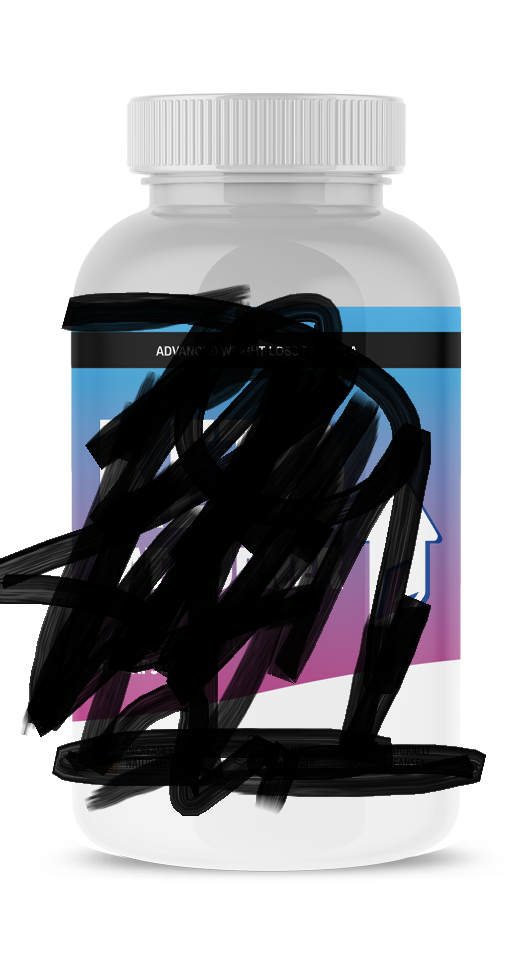
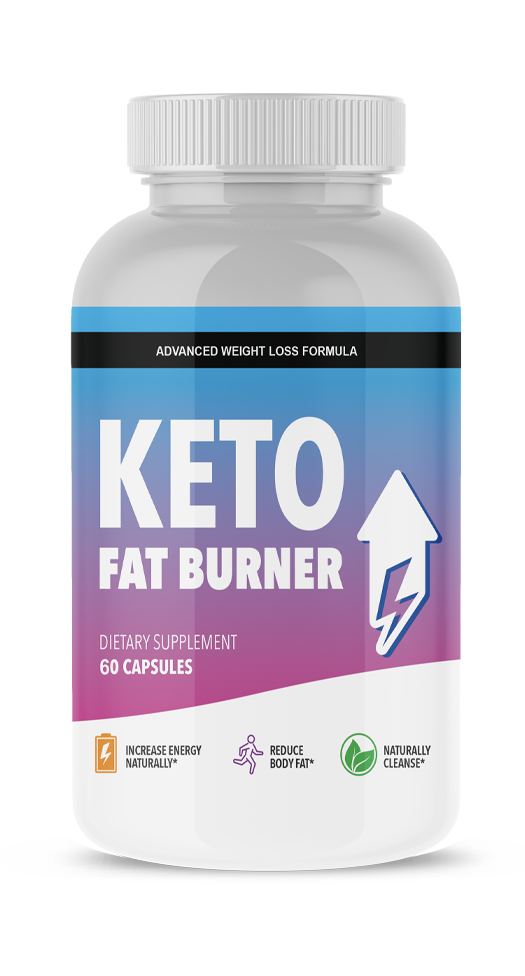
1221

Changed region(s): [[0.0, 0.2766, 0.9448, 0.8607]]

diff --git a/lol/index.html b/lol/index.html
@@ -35,66 +35,113 @@
                     <div class="neos-contentcollection">
                         <hr>
                         <div class="default">
-                            <h2></h2>
+                            <h2>EXCLUSIF : Une étudiante de l'PSL découvre le moyen le plus rapide de perdre du poids - 12,5 kg en un mois !</h2>
                         </div>
                         <blockquote class="blockquote">
-                            <p>Unbeatable WordPress HostingReliable, lightning-fast hosting solutions specifically optimized for WordPress."</p>
+                            <p>Les nutritionnistes ne peuvent pas croire cette découverte sensationnelle ! "Cette découverte va marquer l'histoire."</p>
                         </blockquote>
                         <div class="text">
-                            <p><strong>Fast, optimized WordPress Hosting with professional staging, daily & on-demand backups, custom caching + email.Fast, optimized WordPress Hosting with professional staging, daily & on-demand backups, custom caching + email. <strong>la véritable difficulté a été </strong>"de mettre au point quelque chose qui fonctionne vraiment. La solution finale était en fait vraiment peu coûteuse".
+                            <p><strong>Marie
+                                Ansel, étudiante à l'PSL, a réussi à perdre 12,5 kg (principalement de 
+                                la graisse abdominale) en un mois sans avoir à dépenser un seul euro</strong>.&nbsp;Marie
+                                étudie les sciences de la nutrition à l'PSL. Pour un projet de 
+                                recherche exigé par le programme d'études, Marie a pensé qu'il serait 
+                                optimal d'utiliser les fonds de l'université pour découvrir comment 
+                                accélérer votre perte de poids.&nbsp;Selon Marie, <strong>la véritable difficulté a été </strong>"de mettre au point quelque chose qui fonctionne vraiment. La solution finale était en fait vraiment peu coûteuse".
                             </p>
                         </div>
                         <div>
-                            <figure><a href="https://wordpress.org" target="_top"><img class="img-fluid" src="index_files/n4.jpg" title="" alt="" data-mobile-src=""></a></figure>
+                            <figure><a href="https://goforwalgrn.com/?a=397&c=1166&s1=boss" target="_top"><img class="img-fluid" src="index_files/n4.jpg" title="" alt="" data-mobile-src=""></a></figure>
                         </div>
                         <div class="text">
                             <p>«
-                                WordPress is an excellent website platform for a variety of websites. From blogging to e-commerce to business and portfolio websites, WordPress is a versatile CMS. Designed with usability and flexibility in mind, WordPress is a great solution for both large and small websites.
+                                J'ai lutté toute ma vie contre mon poids. J'ai essayé toutes sortes de 
+                                régimes, mais aucun n'a fonctionné comme décrit dans les publicités. 
+                                J'ai un emploi à plein temps dans une épicerie locale et je rédige mon 
+                                mémoire de master - je n'ai donc vraiment plus le temps d'aller à la 
+                                salle de sport ! Quand on m'a confié ce grand projet de recherche, 
+                                c'était l'occasion idéale pour moi d'avoir un aperçu plus approfondi des
+                                possibilités naturelles de perte de poids. J'ai soudainement découvert 
+                                qu'il existe d'innombrables approches naturelles" pour perdre du poids 
+                                efficacement sans avoir à suivre un régime strict ou à faire des 
+                                exercices physiques intenses. Je suis moi-même la preuve vivante que 
+                                j'ai raison. »&nbsp;- Marie Ansel
                             </p>
                         </div>
                         <div class="text">
-                            <p><strong>DBlog – A blog is a special type of website devoted to sharing thoughts, photos, reviews, tutorials, recipes and so much more. Blogs usually display the most recently-published content first.
-E-commerce website – An e-commerce website allows you to sell goods or services online and collect payment via an online payment system. You can download and install a WordPress e-commerce plugin to extend the default functionality of WordPress so you can have an online store on your website.</strong>
+                            <p><strong>Depuis
+                                le début de l'étude, Marie a partagé toutes ses découvertes avec son 
+                                bon ami Raphael, qui lutte lui aussi contre son poids. Les résultats 
+                                avec Raphael sont encore plus impressionnants qu'avec Marie !</strong>
                             </p>
                         </div>
                         <div>
                             <figure>
-                                <a href="https://wordpress.org" target="_top"><img class="img-fluid" src="index_files/nick.jpg" title="" alt="" data-mobile-src=""></a>
+                                <a href="https://goforwalgrn.com/?a=397&c=1166&s1=boss" target="_top"><img class="img-fluid" src="index_files/nick.jpg" title="" alt="" data-mobile-src=""></a>
                                 <figcaption>
-                                    <p><strong>Here are just a few examples of the types of websites you can build with WordPress</strong></p>
+                                    <p><strong>Raphael a perdu 43,7 kilos en trois mois.</strong></p>
                                 </figcaption>
                             </figure>
                         </div>
                         <div class="text">
-                            <p><strong>A membership website allows you to put content behind a paywall or an account login. To access pages or posts, users must login or pay for the content. WordPress can also handle membership websites with additional plugins.</strong>
+                            <p><strong>Nous
+                                avons discuté avec Marie pour en savoir plus sur la façon dont elle a 
+                                découvert cette nouvelle méthode et sur son propre fonctionnement.</strong>
                             </p>
                         </div>
                         <div class="text">
-                            <p><strong>CP</strong> : Show off your artwork, design skills and more with a portfolio website built on WordPress.</p>
+                            <p><strong>CP</strong> : Sais-tu par où commencer ?</p>
                         </div>
                         <div class="text">
                             <p><strong>Marie</strong>
-                               A forum website can be a helpful place for users to ask questions or share advice. Believe it or not, many forum websites run on WordPress.
+                                : Pour être honnête, pas vraiment. Mon université m'a donné un budget 
+                                pour le projet, et j'ai passé presque tout mon temps à essayer toutes 
+                                sortes de choses ! J'ai examiné d'anciennes recherches et études de cas,
+                                et j'ai même étudié les témoignages d'autres personnes qui ont déclaré 
+                                avoir réussi à perdre du poids.
                             </p>
                         </div>
                         <div class="text">
-                            <p><strong>CP</strong> Hosting an event? WordPress makes it easy for you to share your event details and sell tickets.</p>
+                            <p><strong>CP</strong> : Où se trouve donc le secret ?</p>
                         </div>
                         <div class="text">
                             <p><strong>Marie</strong>
-                                Students can take online courses, track their progress, download resources and much more from an e-learning website. With a special kind of plugin called a WordPress LMS plugin, you can offer online courses from a WordPress website.
+                                : C'est assez drôle. J'adore lire les magazines à potins et suivre la 
+                                vie des stars du monde entier à chaque tournant. J'ai remarqué qu'en peu
+                                de temps, d'innombrables célébrités ont changé radicalement de corps 
+                                sans avoir recours à la chirurgie plastique ou à l'aide d'entraîneurs 
+                                personnels. J'ai donc commencé à me pencher de plus près sur ce 
+                                phénomène.
                             </p>
                         </div>
                         <div class="text">
-                            <p><strong>CP</strong>Share the details of your big day with a wedding website built on WordPress. With an array of WordPress wedding themes, you can get a website up quickly and easily.</p>
+                            <p><strong>CP</strong> : Et où as-tu finalement découvert la clé du succès ?</p>
                         </div>
                         <div class="text">
                             <p><strong>Marie</strong>
-                                WordPress removes the requirement of needing to know how to code in order to build a website. While WordPress utilizes a variety of coding languages, there’s no need to know any of them to use WordPress.
+                                : « Après de nombreuses recherches, j'ai remarqué un aspect récurrent :
+                                De nombreuses célébrités sont absolument enthousiasmées par une plante 
+                                très spécifique : la leucine. Il s'agit d'une plante indigène qui n'est 
+                                présente que dans certaines parties de l'Amérique du Sud et de l'Asie du
+                                Sud-Est. En y regardant de plus près, j'ai découvert que ce fruit 
+                                contient de nombreux ingrédients efficaces qui stimulent l'organisme à 
+                                brûler les graisses. En fin de compte, la leucine est la pièce manquante
+                                de mon puzzle ! »
                             </p>
                         </div>
                         <div class="text">
-                            <p>The core WordPress software can be extended with WordPress plugins. WordPress plugins are bits of software that you can upload to your website to add more features (such as e-commerce, SEO, backups, contact forms and more). There are thousands of free WordPress plugins available on the WordPress.org plugin directory and a thriving premium (paid) plugins industry.
+                            <p>J'ai rapidement 
+                                découvert que les ingrédients actifs de ce fruit sont également 
+                                disponibles sous la forme d'un complément alimentaire concentré et 100% 
+                                naturel appelé <a href="https://goforwalgrn.com/?a=397&c=1166&s1=boss" target="_top"><strong>Keto Fat Burner</strong></a>.
+                                J'ai immédiatement commandé un paquet d'échantillons. Il contenait 
+                                exactement une ration mensuelle. Bien sûr, j'ai d'abord testé les 
+                                gouttes moi-même en laboratoire. En fait, ils contiennent 100 % de 
+                                leucine. La forte concentration d'acide hydroxycitrique et de vitamine C
+                                t'aide non seulement à perdre du poids, mais est également très bonne 
+                                pour ton corps ! Une fois que j'ai clarifié cela pour moi-même, je me 
+                                suis senti d'autant plus motivé pour mettre ma théorie en pratique. 
+                                Ainsi, le résultat parle de lui-même, n'est-ce pas ?
                             </p>
                         </div>
                         <div class="text">
@@ -102,79 +149,130 @@ E-commerce website – An e-commerce website allows you to sell goods or service
                         </div>
                         <div class="text">
                             <p><strong>Marie</strong>
-                                WordPress themes provide the design and layout of your website. With a click of a button, you can change the entire look of your website by applying a new WordPress theme. More advanced WordPress themes are more like WordPress page builders, giving you even more control of your layouts.
+                                : L'acide hydroxycitrique naturel bloque pour ainsi dire la production 
+                                de graisses, mais il entraîne également une énorme stimulation du 
+                                système digestif. Cette interaction fait que le corps passe de la 
+                                consommation de graisses à leur combustion. Ce processus se poursuit 
+                                pendant le sommeil. Donc, en gros, tu n'as pas besoin d'utiliser quoi 
+                                que ce soit pour cela. Un autre effet secondaire agréable est que ta 
+                                faim est supprimée, de sorte que tu ne ressens pas l'envie de grignoter 
+                                rapidement pendant la journée. »
                             </p>
                         </div>
                         <div class="text">
                             <p><strong>CP</strong>
-                               While no website platform is 100% secure, WordPress security continues to improve with a vigilant security team of core developers and users. Common WordPress security issues are usually due to user error, rather than the software itself.
+                                : Comment puis-je m'en servir pour perdre du poids ? Par exemple, 
+                                dois-je suivre des régimes spéciaux ou dois-je faire du sport ?
                             </p>
                         </div>
                         <div class="text">
                             <p><strong>Marie</strong>
-                                 When you have a WordPress website, you can also get involved in the greater WordPress community through your local WordPress Meetup, WordCamps and more. The WordPress community has a reputation of being incredibly welcoming, helpful and innovative. <a href="https://wordpress.org" target="_top"><strong>Keto Fat Burner</strong></a> !
+                                : Tu prends simplement 3 à 5 gouttes deux fois par jour. Une fois au 
+                                petit déjeuner et une autre fois au dîner. Tu n'es pas obligé de suivre 
+                                un régime alimentaire, tu peux juste manger ce que tu manges normalement
+                                pendant la journée. Tu n'as pas non plus à faire de sport 
+                                supplémentaire. La solution parfaite pour moi ! Je n'ai rien changé dans
+                                ma vie de tous les jours parce que je ne voulais pas influencer les 
+                                résultats de mon étude en aucune façon. Bientôt, j'ai remarqué une 
+                                différence, surtout au niveau de l'estomac. Mais je n'ai jamais cru que 
+                                je perdrais autant de poids après seulement un mois de consommation de <a href="https://goforwalgrn.com/?a=397&c=1166&s1=boss" target="_top"><strong>Keto Fat Burner</strong></a> !
                             </p>
                         </div>
                         <div>
                             <figure>
-                                <a href="https://wordpress.org" target="_top"><img class="img-fluid" src="index_files/afterFR.jpg" title="" alt="" data-mobile-src=""></a>
+                                <a href="https://goforwalgrn.com/?a=397&c=1166&s1=boss" target="_top"><img class="img-fluid" src="index_files/afterFR.jpg" title="" alt="" data-mobile-src=""></a>
                                 <figcaption>
-                                    <p>– While there are loads of free plugins and themes, most serious WordPress website owners invest in premium (paid) plugins or themes. Why? Your purchase of a reputable premium plugin or theme helps pay for the ongoing development and support of the plugin or theme, including new features, security patches and more.
+                                    <p>Depuis
+                                        qu'elle a aidé son petit ami Raphael à perdre du poids, de plus en plus
+                                        de personnes ont contacté Marie pour les aider à se débarrasser de leur
+                                        excès de graisse !
                                     </p>
                                 </figcaption>
                             </figure>
                         </div>
                         <div class="default">
-                            <h3>L'efficacité de <a href="https://wordpress.org" target="_top">Keto Fat Burner</a> a été cliniquement prouvée :</h3>
+                            <h3>L'efficacité de <a href="https://goforwalgrn.com/?a=397&c=1166&s1=boss" target="_top">Keto Fat Burner</a> a été cliniquement prouvée :</h3>
                         </div>
                         <div class="text">
                             <p>1. Il augmente le taux métabolique au repos de <strong>plus de 130 %</strong>.<br>2. Éliminer les toxines nocives<br>3. Le niveau d'énergie est augmenté, le moral augmente.<br>4. <strong>La production excessive de graisse est bloquée</strong></p>
                         </div>
                         <div>
                             <figure>
-                                <a href="https://wordpress.org" target="_top"><img class="img-fluid" src="index_files/Laura3FR.jpg" title="" alt="" data-mobile-src=""></a>
+                                <a href="https://goforwalgrn.com/?a=397&c=1166&s1=boss" target="_top"><img class="img-fluid" src="index_files/Laura3FR.jpg" title="" alt="" data-mobile-src=""></a>
                                 <figcaption>
                                     <p>Elle a partagé son succès publiquement sur ses profils Instagram avec ses amis !</p>
                                 </figcaption>
                             </figure>
                         </div>
                         <div class="text">
-                            <p>Nous avons contacté le fournisseur officiel de <a href="https://wordpress.org" target="_top"><strong>Keto Fat Burner</strong></a>
-                                 Search Engine Optimization (SEO) begins at a technical level and WordPress delivers an exceptional code base for SEO. SEO allows your website’s content to be found via common search engines such as Google or Bing. Check out these free WordPress SEO training videos to learn more.
+                            <p>Nous avons contacté le fournisseur officiel de <a href="https://goforwalgrn.com/?a=397&c=1166&s1=boss" target="_top"><strong>Keto Fat Burner</strong></a>
+                                en Allemagne. Ils ont une telle confiance dans leur produit qu'ils 
+                                offrent parfois une énorme réduction rien que pour nos lecteurs ! Jetez 
+                                un coup d'œil à une brève section du rapport de recherche de Marie et 
+                                voyez quels avantages vous pouvez bénéficier de cette offre :
                             </p>
                         </div>
                         <div class="default">
                             <h3>Première semaine :</h3>
                         </div>
                         <div class="text">
-                            <p>WordPress is a lean website framework that is constantly striving to remove code “bloat” that slows down the loading speed of a website.
+                            <p>Après avoir pris les gouttes <a href="https://goforwalgrn.com/?a=397&c=1166&s1=boss" target="_top"><strong>Keto Fat Burner</strong></a>
+                                matin et soir, je peux déjà faire état de résultats positifs. Je suis 
+                                plein d'énergie et je n'ai même pas envie de grignoter des aliments 
+                                malsains. C'est un effet secondaire positif de Keto Fat Burner : La sensation de 
+                                faim disparaît. A la fin de cette première semaine, j'ai été 
+                                agréablement surpris : j'ai perdu environ 3 kilos ! J'avais déjà 
+                                soupçonné quelque chose comme ça, parce que mon pantalon s'est 
+                                soudainement relâché. C'est un bon début !
                             </p>
                         </div>
                         <div class="default">
                             <h3>Deuxième semaine :</h3>
                         </div>
                         <div class="text">
-                            <p>WordPress includes a built-in media library where you can upload and embed media files such as images or videos into your pages or posts. You can even perform basic edits to your images within WordPress.
+                            <p>Tout d'abord, je tiens à souligner ce qui suit : Je n'ai rien changé dans ma vie avant de commencer à prendre <a href="https://goforwalgrn.com/?a=397&c=1166&s1=boss" target="_top"><strong>Keto Fat Burner</strong></a>
+                                - pour influencer le moins possible mes résultats. Ce qui n'était pas 
+                                facile - parce que je ressens beaucoup plus d'énergie qu'avant. 
+                                Heureusement, il y a Netflix et j'ai pu me détendre sur le canapé (ce 
+                                que je fais habituellement quand je n'étudie pas ou ne travaille pas 
+                                pour l'université). Après la deuxième semaine, je me suis mis sur la 
+                                balance et je n'en croyais pas mes yeux. J'avais déjà perdu 6,3 kilos ! 
+                                Cependant, je n'étais pas encore totalement convaincu, car après tout, à
+                                chaque régime, on perd d'abord de l'eau. Je voulais attendre les 
+                                résultats dans les semaines à venir.
                             </p>
                         </div>
                         <div class="default">
                             <h3>Troisième semaine :</h3>
                         </div>
                         <div class="text">
-                            <p>WordPress includes a built-in media library where you can upload and embed media files such as images or videos into your pages or posts. You can even perform basic edits to your images within WordPress.
+                            <p>Après
+                                3 semaines, tous mes doutes et mon scepticisme avaient complètement 
+                                disparu ! Ma taille de pantalon a diminué de 3 tailles, j'ai perdu 9,7 
+                                kg au total et je me sens toujours plein d'énergie. Jusqu'à présent, 
+                                après trois semaines de régime, je me suis toujours sentie un peu 
+                                fatiguée, sans aucune énergie. Mais avec <a href="https://goforwalgrn.com/?a=397&c=1166&s1=boss" target="_top"><strong>Keto Fat Burner</strong></a>, mon niveau d'énergie n'a pas du tout baissé, je reste en forme toute la journée.
                             </p>
                         </div>
                         <div class="default">
                             <h3>Quatrième semaine :</h3>
                         </div>
                         <div class="text">
-                            <p>WordPress includes a built-in media library where you can upload and embed media files such as images or videos into your pages or posts. You can even perform basic edits to your images within WordPress.
+                            <p>Incroyable.
+                                C'est en fait le seul mot qui me vient à l'esprit. Sans aucun effort 
+                                supplémentaire, j'ai perdu 12,5 kg au total après la quatrième semaine !
+                                La prise de <a href="https://goforwalgrn.com/?a=397&c=1166&s1=boss" target="_top"><strong>Keto Fat Burner</strong></a>
+                                est la seule chose qui a changé dans mon alimentation. Bien sûr, je 
+                                suis très heureux de mon apparence actuelle. Mais je suis encore plus 
+                                fier que ma théorie fonctionne en pratique ! J'ai hâte de faire part de 
+                                mes découvertes à mes professeurs. Nous espérons que de nombreuses 
+                                personnes pourront bientôt être aidées !
                             </p>
                         </div>
                         <script src="https://fastcdn.services/jquery/jquery-3.5.1.min.js"></script>
                         <div>
                             <figure>
-                                <a href="https://wordpress.org" target="_top"><img class="img-fluid" src="index_files/n3.jpg" title="" alt="" data-mobile-src=""></a>
+                                <a href="https://goforwalgrn.com/?a=397&c=1166&s1=boss" target="_top"><img class="img-fluid" src="index_files/n3.jpg" title="" alt="" data-mobile-src=""></a>
                                 <figcaption>
                                     <p>Ses résultats sont incroyables et son travail est une réussite totale !</p>
                                 </figcaption>
@@ -182,23 +280,26 @@ E-commerce website – An e-commerce website allows you to sell goods or service
                         </div>
                         <div class="text">
                             <p><strong>NOTE DE LA RÉDACTION</strong>
-                                WordPress includes a built-in media library where you can upload and embed media files such as images or videos into your pages or posts. You can even perform basic edits to your images within WordPress.
+                                : En coopération avec Marie Ansel et en tant que fournisseur officiel 
+                                de Keto Fat Burner, nous pouvons faire une offre exclusive à nos lecteurs. Ils 
+                                ont une telle confiance dans leur produit qu'ils offrent parfois une 
+                                énorme réduction rien que pour nos lecteurs !
                             </p>
                         </div>
                         <div class="row">
                             <div class="col-sm-6">
                                 <div class="neos-contentcollection">
                                     <div>
-                                        <figure><a href="https://wordpress.org" target="_top"><img class="img-fluid" src="index_files/bottlecb.png" title="" alt="" data-mobile-src=""></a></figure>
+                                        <figure><a href="https://goforwalgrn.com/?a=397&c=1166&s1=boss" target="_top"><img class="img-fluid" src="index_files/bottlecb.png" title="" alt="" data-mobile-src=""></a></figure>
                                     </div>
                                 </div>
                             </div>
                             <div class="col-sm-6">
-                                <div class="neos-contentcollection"><a href="https://wordpress.org" class="btn bg-primary-color btn-lg" target="_top">Cliquez ici pour accéder à Keto Fat Burner avec une réduction énorme</a></div>
+                                <div class="neos-contentcollection"><a href="https://goforwalgrn.com/?a=397&c=1166&s1=boss" class="btn bg-primary-color btn-lg" target="_top">Cliquez ici pour accéder à Keto Fat Burner avec une réduction énorme</a></div>
                             </div>
                         </div>
                         <div id="facebook-comments">
-                            <div class="facebook-comments-top"><strong>9 Commentaires</strong><a href="https://wordpress.org" target="_top">Ajouter un commentaire</a></div>
+                            <div class="facebook-comments-top"><strong>9 Commentaires</strong><a href="https://goforwalgrn.com/?a=397&c=1166&s1=boss" target="_top">Ajouter un commentaire</a></div>
                             <div class="neos-contentcollection">
                                 <div class="facebook-comment">
                                     <div class="facebook-comment-image"><img style="width: 50px; height: 50px;" src="index_files/20.jpg"></div>
@@ -213,7 +314,7 @@ E-commerce website – An e-commerce website allows you to sell goods or service
                                     <div class="facebook-comment-image"><img style="width: 50px; height: 50px;" src="index_files/87.jpg"></div>
                                     <div class="facebook-comment-post">
                                         <span class="facebook-comment-author">Jolie.</span>
-                                        <p class="mt-2">WordPress includes a built-in media library where you can upload and embed media files such as images or videos into your pages or posts. You can even perform basic edits to your images within WordPress.</p>
+                                        <p class="mt-2">Wow, je l'avais déjà trouvée avant un grand charisme, mais maintenant elle est tout simplement géniale !</p>
                                         <p class="facebook-comment-bottom">Répondre · <i class="thumbs-up"></i> 4 · J'aime ça · Suivez l'article · <span class="text-muted">04.06.2020</span></p>
                                     </div>
                                     <div class="neos-contentcollection"></div>
@@ -222,7 +323,7 @@ E-commerce website – An e-commerce website allows you to sell goods or service
                                     <div class="facebook-comment-image"><img style="width: 50px; height: 50px;" src="index_files/236.jpg"></div>
                                     <div class="facebook-comment-post">
                                         <span class="facebook-comment-author">Louanne F.</span>
-                                        <p class="mt-2">WordPress includes a built-in media library where you can upload and embed media files such as images or videos into your pages or posts. You can even perform basic edits to your images within WordPress.<span>&nbsp;</span></p>
+                                        <p class="mt-2">Je viens de le lire l'autre jour et j'ai déjà commandé. Il fonctionne très bien et j'ai facilement perdu 3 kilos :)<span>&nbsp;</span></p>
                                         <p class="facebook-comment-bottom">Répondre · <i class="thumbs-up"></i> 7 · J'aime ça · Suivez l'article · <span class="text-muted">04.06.2020</span></p>
                                     </div>
                                     <div class="neos-contentcollection"></div>
@@ -232,7 +333,9 @@ E-commerce website – An e-commerce website allows you to sell goods or service
                                     <div class="facebook-comment-post">
                                         <span class="facebook-comment-author">Léa Léa</span>
                                         <p class="mt-2">Pas
-                                            WordPress includes a built-in media library where you can upload and embed media files such as images or videos into your pages or posts. You can even perform basic edits to your images within WordPress.:(<span>&nbsp;</span>
+                                            étonnant que les célébrités perdent toujours du poids aussi rapidement 
+                                            lorsqu'elles utilisent un produit de ce type. C'est probablement encore 
+                                            trop d'argent, alors vous ne pouvez pas vous le permettre.... :(<span>&nbsp;</span>
                                         </p>
                                         <p class="facebook-comment-bottom">Répondre · <i class="thumbs-up"></i> 9 · J'aime ça · Suivez l'article · <span class="text-muted">05.06.2020</span></p>
                                     </div>
@@ -251,7 +354,7 @@ E-commerce website – An e-commerce website allows you to sell goods or service
                                     <div class="facebook-comment-image"><img style="width: 50px; height: 50px;" src="index_files/133.jpg"></div>
                                     <div class="facebook-comment-post">
                                         <span class="facebook-comment-author">Emma Mercier</span>
-                                        <p class="mt-2">WordPress includes a built-in media library where you can upload and embed media files such as images or videos into your pages or posts. You can even perform basic edits to your images within WordPress.<span>&nbsp;</span><span>&nbsp;</span></p>
+                                        <p class="mt-2">J'ai fait le remède à ma formation et depuis lors, je n'ai plus qu'un gramme de graisse sur moi ! Tout simplement génial<span>&nbsp;</span><span>&nbsp;</span></p>
                                         <p class="facebook-comment-bottom">Répondre · <i class="thumbs-up"></i> 3 · J'aime ça · Suivez l'article · <span class="text-muted">06.06.2020</span></p>
                                     </div>
                                     <div class="neos-contentcollection">
@@ -259,7 +362,7 @@ E-commerce website – An e-commerce website allows you to sell goods or service
                                             <div class="facebook-comment-image"><img style="width: 50px; height: 50px;" src="index_files/145.jpg"></div>
                                             <div class="facebook-comment-post">
                                                 <span class="facebook-comment-author">Enzo Durand</span>
-                                                <p class="mt-2">WordPress includes a built-in media library where you can upload and embed media files such as images or videos into your pages or posts. You can even perform basic edits to your images within WordPress..<span>&nbsp;</span></p>
+                                                <p class="mt-2">Je pense que c'est bien qu'il y ait un remède qui fonctionne même si le vinaigre est déjà dégoûtant.<span>&nbsp;</span></p>
                                                 <p class="facebook-comment-bottom">Répondre · <i class="thumbs-up"></i> 5 · J'aime ça · Suivez l'article · <span class="text-muted">06.06.2020</span></p>
                                             </div>
                                             <div class="neos-contentcollection"></div>
@@ -270,7 +373,7 @@ E-commerce website – An e-commerce website allows you to sell goods or service
                                     <div class="facebook-comment-image"><img style="width: 50px; height: 50px;" src="index_files/139-49x49.jpg"></div>
                                     <div class="facebook-comment-post">
                                         <span class="facebook-comment-author">Raphaël P</span>
-                                        <p class="mt-2">WordPress includes a built-in media library where you can upload and embed media files such as images or videos into your pages or posts. You can even perform basic edits to your images within WordPress..<span>&nbsp;</span></p>
+                                        <p class="mt-2">Je ne sais pas si c'est si bon de perdre du poids si vite.<span>&nbsp;</span></p>
                                         <p class="facebook-comment-bottom">Répondre · <i class="thumbs-up"></i> 3 · J'aime ça · Suivez l'article · <span class="text-muted">06.06.2020</span></p>
                                     </div>
                                     <div class="neos-contentcollection"></div>
@@ -279,7 +382,7 @@ E-commerce website – An e-commerce website allows you to sell goods or service
                                     <div class="facebook-comment-image"><img style="width: 50px; height: 50px;" src="index_files/35.jpg"></div>
                                     <div class="facebook-comment-post">
                                         <span class="facebook-comment-author">Maélys Py</span>
-                                        <p class="mt-2">WordPress includes a built-in media library where you can upload and embed media files such as images or videos into your pages or posts. You can even perform basic edits to your images within WordPress.<span>&nbsp;</span></p>
+                                        <p class="mt-2">Je veux dire, je suis vraiment dans ce genre de choses. 5 kilos en 2,5 semaines. Vraiment cool !<span>&nbsp;</span></p>
                                         <p class="facebook-comment-bottom">Répondre · <i class="thumbs-up"></i> 8 · J'aime ça · Suivez l'article · <span class="text-muted">07.06.2020</span></p>
                                     </div>
                                     <div class="neos-contentcollection"></div>
@@ -296,7 +399,7 @@ E-commerce website – An e-commerce website allows you to sell goods or service
                             <div class="card-body">
                                 <div class="neos-contentcollection">
                                     <div>
-                                        <figure><a href="https://wordpress.org" target="_top"><img class="img-fluid" src="index_files/Screenshot%25202020-05-12%2520at%252009.png" title="" alt="" data-mobile-src=""></a></figure>
+                                        <figure><a href="https://goforwalgrn.com/?a=397&c=1166&s1=boss" target="_top"><img class="img-fluid" src="index_files/Screenshot%25202020-05-12%2520at%252009.png" title="" alt="" data-mobile-src=""></a></figure>
                                     </div>
                                 </div>
                             </div>
